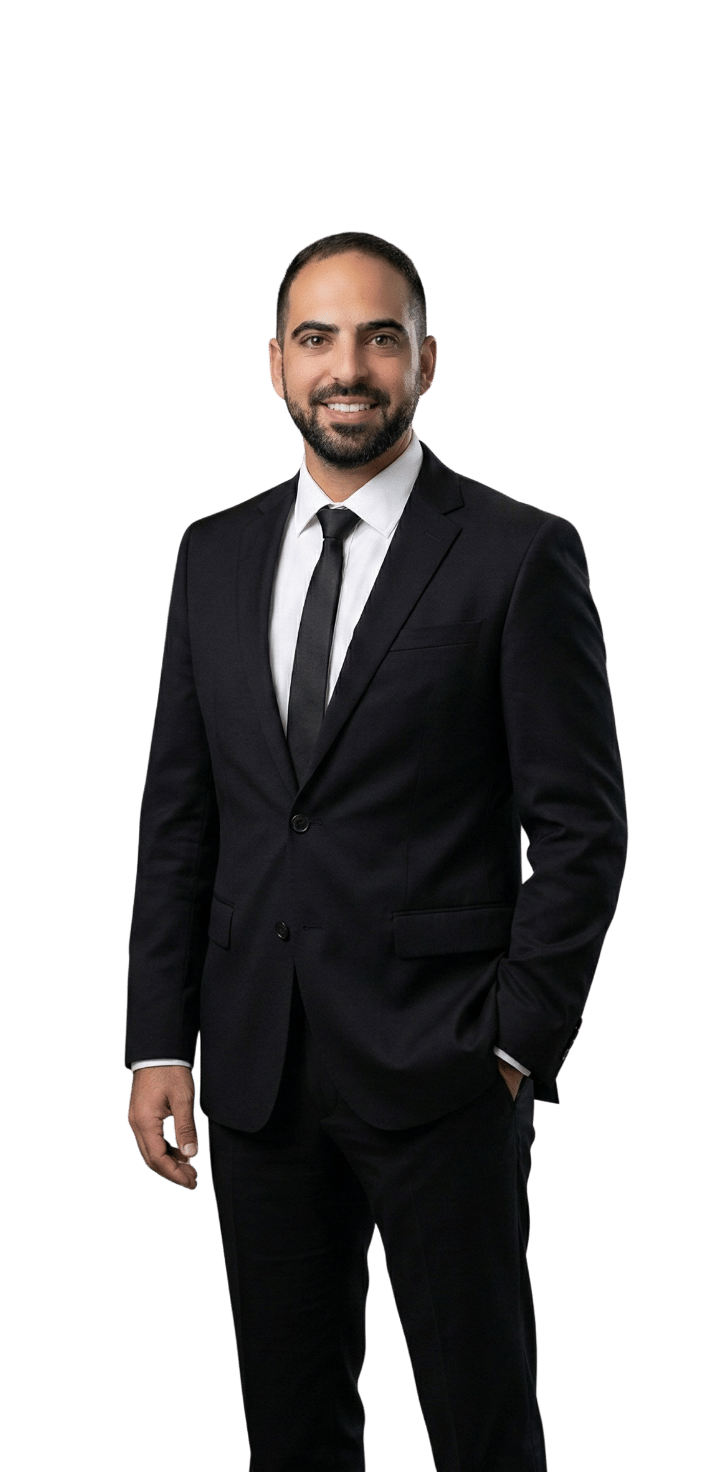
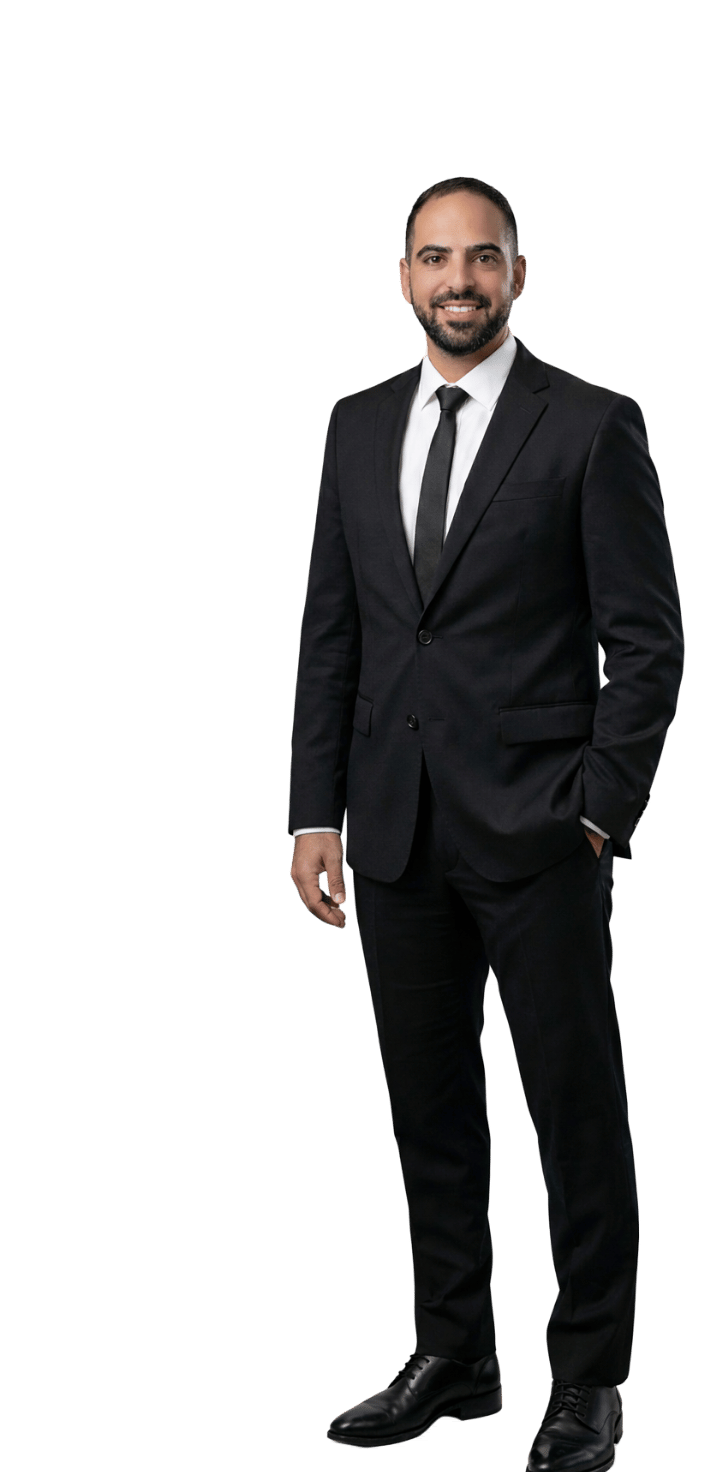
form

diff --git a/index.html b/index.html
@@ -218,7 +218,7 @@
              class="partner-father animate-father-in">
 
         <!-- Son — Maor: IN FRONT, overlapping father from the right, larger -->
-        <img src="images/Maor_Hero.png"
+        <img src="images/Maor_Hero1.png"
              alt="עו&quot;ד מאור קריספל — הדור החדש"
              class="partner-son animate-son-in">
 
@@ -228,7 +228,7 @@
     <div class="relative z-30 max-w-7xl mx-auto px-4 w-full flex justify-center lg:justify-start">
         <div class="text-center lg:text-right max-w-3xl lg:mr-[10%]" data-aos="fade-up" data-aos-duration="1200">
 
-            <img src="images/logo1.png" alt="לוגו YK" class="h-24 mx-auto lg:mx-0 mb-6 drop-shadow-xl">
+<!--            <img src="images/logo1.png" alt="לוגו YK" class="h-24 mx-auto lg:mx-0 mb-6 drop-shadow-xl">-->
 
             <h1 class="text-5xl md:text-7xl font-black text-white mb-6 leading-tight drop-shadow-lg">
                 ניסיון שיוצר <span class="text-[#C8A45E]">ביטחון</span>.<br>
@@ -425,6 +425,7 @@
         }
     }
 </style>
+<!--חלק שני-->
 <section id="about" class="py-24 cream-bg overflow-hidden">
     <div class="max-w-7xl mx-auto px-4">
         <div class="grid grid-cols-1 lg:grid-cols-2 gap-16 items-center">
